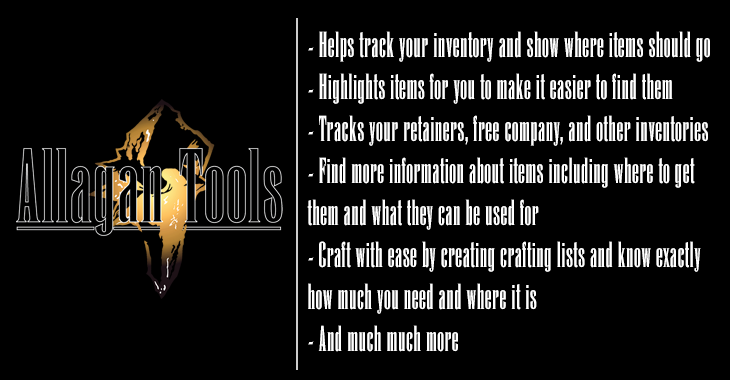
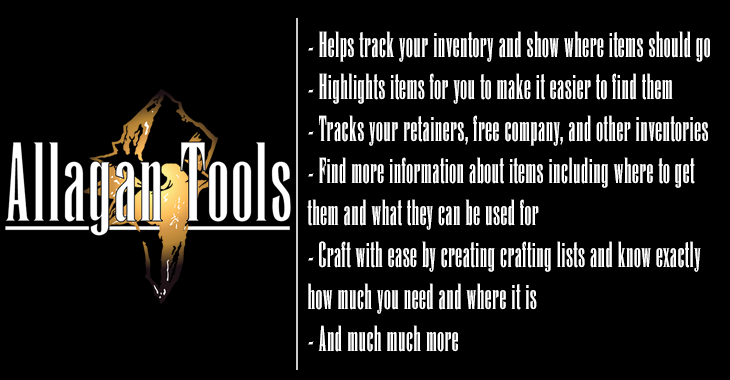
Fix minor issues

Changed region(s): [[0.0, 0.2316, 0.4219, 0.7816]]

diff --git a/InventoryTools/Ui/Windows/CraftsWindow.cs b/InventoryTools/Ui/Windows/CraftsWindow.cs
@@ -7,6 +7,7 @@ using CriticalCommonLib.MarketBoard;
 using CriticalCommonLib.Models;
 using CriticalCommonLib.Services;
 using Dalamud.Interface.Colors;
+using Dalamud.Logging;
 using ImGuiNET;
 using ImGuiScene;
 using InventoryTools.Logic;
@@ -64,6 +65,7 @@ namespace InventoryTools.Ui
         }
         public override void Draw()
         {
+            var isWindowFocused = ImGui.IsWindowFocused();
             var filterConfigurations = Filters;
             if (ImGui.BeginChild("###craftsList", new Vector2(180, -1) * ImGui.GetIO().FontGlobalScale, true))
             {
@@ -75,6 +77,13 @@ namespace InventoryTools.Ui
                         if (ImGui.Selectable(filterConfiguration.Name + "###fl" + index, index == _selectedFilterTab))
                         {
                             _selectedFilterTab = index;
+                            if (ConfigurationManager.Config.SwitchFiltersAutomatically &&
+                                ConfigurationManager.Config.ActiveUiFilter != filterConfiguration.Key &&
+                                ConfigurationManager.Config.ActiveUiFilter != null)
+                            {
+                                PluginLog.Log(filterConfiguration.Key);
+                                PluginService.FilterService.ToggleActiveUiFilter(filterConfiguration);
+                            }
                         }
                     }
                     ImGui.EndChild();
@@ -122,6 +131,16 @@ namespace InventoryTools.Ui
                     if (_selectedFilterTab == index)
                     {
                         var filterConfiguration = filterConfigurations[index];
+                        if (isWindowFocused)
+                        {
+                            if (ConfigurationManager.Config.SwitchFiltersAutomatically &&
+                                ConfigurationManager.Config.ActiveUiFilter != filterConfiguration.Key &&
+                                ConfigurationManager.Config.ActiveUiFilter != null)
+                            {
+                                PluginLog.Log(filterConfiguration.Key);
+                                PluginService.FilterService.ToggleActiveUiFilter(filterConfiguration);
+                            }
+                        }
                         if (_settingsActive)
                         {
                             if (ImGui.BeginChild("Content", new Vector2(0, -44) * ImGui.GetIO().FontGlobalScale, true))

diff --git a/InventoryTools/PluginLogic.cs b/InventoryTools/PluginLogic.cs
@@ -1003,39 +1003,13 @@ namespace InventoryTools
             if (filterConfigurations.Any(c => c.Name == filterName))
             {
                 var filter = filterConfigurations.First(c => c.Name == filterName);
-                filter.OpenAsWindow = !filter.OpenAsWindow;
+                PluginService.WindowService.ToggleFilterWindow(filter.Key);
                 return true;
             }
             Service.Chat.Print("Failed to find filter with name: " + filterName);
             return false;
         }
 
-        public static void DrawFilterWindows()
-        {
-            foreach (var filter in PluginService.FilterService.Filters)
-            {
-                var isVisible = filter.Value.OpenAsWindow;
-                if (isVisible)
-                {
-                    ImGui.SetNextWindowSize(new Vector2(350, 500) * ImGui.GetIO().FontGlobalScale,
-                        ImGuiCond.FirstUseEver);
-                    ImGui.SetNextWindowPos(new Vector2(ImGui.GetIO().DisplaySize.X - 350 - 60, ImGui.GetIO().DisplaySize.Y - 500 - 50),
-                        ImGuiCond.FirstUseEver);
-                    ImGui.SetNextWindowSizeConstraints(new Vector2(350, 500) * ImGui.GetIO().FontGlobalScale,
-                        new Vector2(2000, 2000) * ImGui.GetIO().FontGlobalScale);
-                    if (ImGui.Begin("Filter: " + filter.Value.Name, ref isVisible))
-                    {
-                        if (isVisible != filter.Value.OpenAsWindow)
-                        {
-                            filter.Value.OpenAsWindow = isVisible;
-                        }
-
-                    }
-                    ImGui.End();
-                }
-            }
-        }
-        
         public TextureWrap LoadImage(string imageName)
         {
             var assemblyLocation = PluginService.PluginInterface!.AssemblyLocation.DirectoryName!;

diff --git a/InventoryTools/Services/WindowService.cs b/InventoryTools/Services/WindowService.cs
@@ -49,6 +49,18 @@ namespace InventoryTools.Services
             return AddWindow(itemWindow);
         }
 
+        public bool OpenFilterWindow(string filterKey)
+        {
+            var asKey = FilterWindow.AsKey(filterKey);
+            if (_windows.ContainsKey(asKey))
+            {
+                _windows[asKey].Toggle();
+                return true;
+            }
+            var filterWindow = new FilterWindow(filterKey);
+            return AddWindow(filterWindow);
+        }
+
         public bool HasFilterWindowOpen
         {
             get
@@ -99,6 +111,14 @@ namespace InventoryTools.Services
             if (windowName == ConfigurationWindow.AsKey)
             {
                 return OpenWindow<ConfigurationWindow>(ConfigurationWindow.AsKey);
+            }
+
+            foreach (var config in ConfigurationManager.Config.FilterConfigurations)
+            {
+                if (windowName == FilterWindow.AsKey(config.Key))
+                {
+                    return OpenFilterWindow(config.Key);
+                }
             }
 
             return false;
@@ -189,6 +209,18 @@ namespace InventoryTools.Services
         public bool ToggleFiltersWindow()
         {
             return ToggleWindow<FiltersWindow>(FiltersWindow.AsKey);
+        }
+
+        public bool ToggleFilterWindow(string filterKey)
+        {
+            var asKey = FilterWindow.AsKey(filterKey);
+            if (_windows.ContainsKey(asKey))
+            {
+                _windows[asKey].Toggle();
+                return true;
+            }
+
+            return OpenFilterWindow(filterKey);
         }
         
         private void FilterServiceOnFilterRepositioned(FilterConfiguration configuration)

diff --git a/InventoryTools/Ui/Windows/FilterWindow.cs b/InventoryTools/Ui/Windows/FilterWindow.cs
@@ -1,4 +1,5 @@
 using System.Numerics;
+using ImGuiNET;
 using InventoryTools.Logic;
 
 namespace InventoryTools.Ui
@@ -33,6 +34,15 @@ namespace InventoryTools.Ui
         {
             if (SelectedConfiguration != null)
             {
+                if (ImGui.IsWindowFocused())
+                {
+                    if (ConfigurationManager.Config.SwitchFiltersAutomatically &&
+                        ConfigurationManager.Config.ActiveUiFilter != SelectedConfiguration.Key &&
+                        ConfigurationManager.Config.ActiveUiFilter != null)
+                    {
+                        PluginService.FilterService.ToggleActiveUiFilter(SelectedConfiguration);
+                    }
+                }
                 var table = PluginService.FilterService.GetFilterTable(_filterKey);
                 if (table != null)
                 {
@@ -41,7 +51,7 @@ namespace InventoryTools.Ui
             }
         }
 
-        public override Vector2 Size => new Vector2(350, 500);
+        public override Vector2 Size => new Vector2(600, 500);
         public override Vector2 MaxSize => new Vector2(1500, 1500);
         public override Vector2 MinSize => new Vector2(200, 200);
     }

diff --git a/InventoryTools/Ui/Windows/IntroWindow.cs b/InventoryTools/Ui/Windows/IntroWindow.cs
@@ -10,7 +10,7 @@ namespace InventoryTools.Ui
         private TextureWrap _allaganToolsIcon;
         public IntroWindow()
         {
-            _allaganToolsIcon = PluginService.PluginLogic.LoadImage("icon");
+            _allaganToolsIcon = PluginService.PluginLogic.LoadImage("icon-hor");
         }
         public override void Invalidate()
         {
@@ -48,9 +48,9 @@ namespace InventoryTools.Ui
             ImGui.EndChild();
         }
 
-        public override Vector2 Size { get; } = new Vector2(600, 320);
-        public override Vector2 MaxSize { get; } = new Vector2(600, 320);
-        public override Vector2 MinSize { get; } = new Vector2(600, 320);
+        public override Vector2 Size { get; } = new Vector2(600, 360);
+        public override Vector2 MaxSize { get; } = new Vector2(600, 360);
+        public override Vector2 MinSize { get; } = new Vector2(600, 360);
         public override bool SaveState => false;
 
         public override ImGuiWindowFlags? WindowFlags { get; } =

diff --git a/InventoryTools/Commands/PluginCommands.cs b/InventoryTools/Commands/PluginCommands.cs
@@ -1,6 +1,7 @@
 using CriticalCommonLib.Services;
 using Dalamud.Logging;
 using DalamudPluginProjectTemplate.Attributes;
+using InventoryTools.Ui;
 
 namespace InventoryTools.Commands
 {
@@ -110,6 +111,13 @@ namespace InventoryTools.Commands
         public  void ToggleDebugWindow(string command, string args)
         {
             PluginService.WindowService.ToggleDebugWindow();
+        }
+
+        [Command("/itintro")]
+        [HelpMessage("Opens the inventory tools debug window")]
+        public void ToggleIntroWindow(string command, string args)
+        {
+            PluginService.WindowService.OpenWindow<IntroWindow>(IntroWindow.AsKey);
         }
 
         #endif

diff --git a/InventoryTools/Ui/InventoryToolsUi.cs b/InventoryTools/Ui/InventoryToolsUi.cs
@@ -26,7 +26,7 @@ namespace InventoryTools.Ui
 
         private void UiBuilderOnOpenConfigUi()
         {
-            Configuration.IsVisible = true;
+            PluginService.WindowService.ToggleConfigurationWindow();
         }
 
         public bool IsVisible
@@ -39,7 +39,6 @@ namespace InventoryTools.Ui
         {
             if (!Service.ClientState.IsLoggedIn || _disposing || !Service.ExcelCache.FinishedLoading || !PluginService.PluginLoaded)
                 return;
-            PluginLogic.DrawFilterWindows();
             foreach (var window in PluginService.WindowService.Windows)
             {
                 var windowVisible = window.Value.Visible;

diff --git a/InventoryTools/Ui/Windows/FiltersWindow.cs b/InventoryTools/Ui/Windows/FiltersWindow.cs
@@ -71,7 +71,7 @@ namespace InventoryTools.Ui
                     if (ImGui.BeginTabItem(itemTable.Name + "##" + filterConfiguration.Key))
                     {
                         var activeFilter = DrawFilter(itemTable, filterConfiguration, _activeFilter);
-                        if (_activeFilter != activeFilter)
+                        if (_activeFilter != activeFilter && ImGui.IsWindowFocused())
                         {
                             if (ConfigurationManager.Config.SwitchFiltersAutomatically &&
                                 ConfigurationManager.Config.ActiveUiFilter != filterConfiguration.Key &&

diff --git a/InventoryTools/Ui/Pages/FiltersPage.cs b/InventoryTools/Ui/Pages/FiltersPage.cs
@@ -82,7 +82,7 @@ namespace InventoryTools.Sections
                         ImGui.SameLine();
                         if (ImGui.SmallButton("Open as Window##" + index))
                         {
-                            filterConfiguration.OpenAsWindow = true;
+                            PluginService.WindowService.OpenFilterWindow(filterConfiguration.Key);
                         }
 
                         if (ImGui.BeginPopupModal("Delete?##" + index))

diff --git a/InventoryTools/Logic/FilterState.cs b/InventoryTools/Logic/FilterState.cs
@@ -56,7 +56,7 @@ namespace InventoryTools.Logic
                 var activeFilter = FilterConfiguration;
                 RenderTableBase? activeTable = FilterTable;
                 bool shouldHighlight = false;
-                if (ConfigurationManager.Config.IsVisible || FilterConfiguration.OpenAsWindow)
+                if (ConfigurationManager.Config.IsVisible)
                 {
                     if (activeTable != null)
                     {
